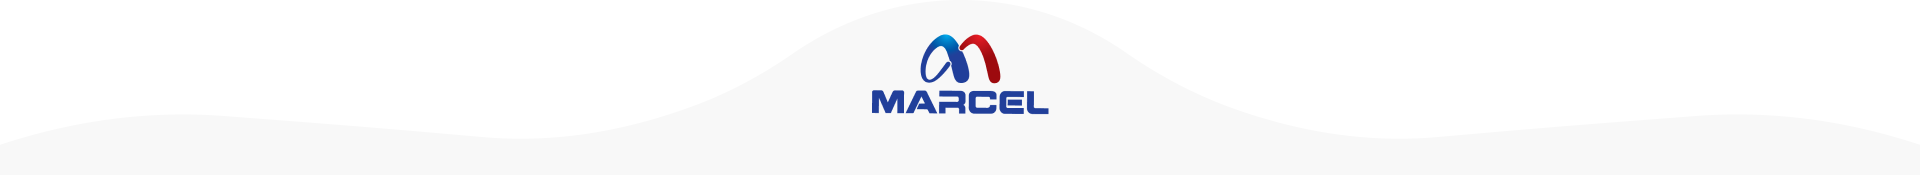
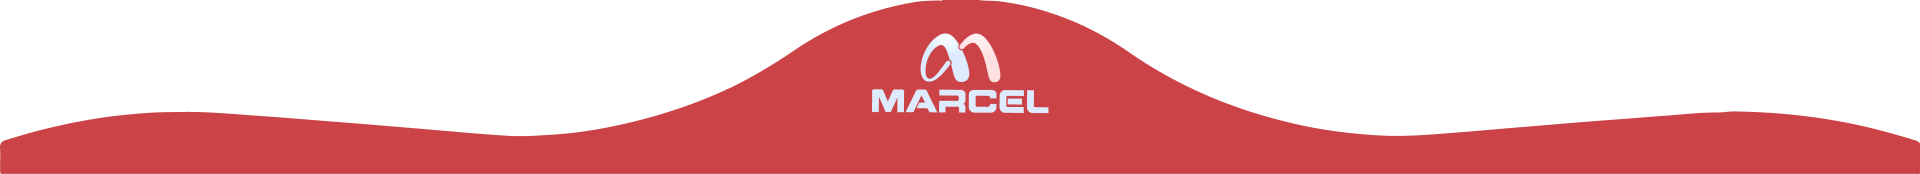
marcel page done

diff --git a/js/script.js b/js/script.js
@@ -111,7 +111,7 @@ $(document).ready(function(){
         $("#wslContent").hide();
         $("#chemicalContent").hide();
         $(".at-a-glance-top-bg").css("background-color", "#144A9D");
-        $(".custom-button").css("background-color", "#144A9D");
+        $(".at-a-glance-bottom-area .custom-button").css("background-color", "#144A9D");
         $(".active-center-item").css("background-color", "#CADFFF");
         $(".at-a-glance-bottom-area h2").css("color", "#144A9D");
     });
@@ -129,10 +129,10 @@ $(document).ready(function(){
         $("#nusdatContent").hide();
         $("#wslContent").hide();
         $("#chemicalContent").hide();
-        $(".at-a-glance-top-bg").css("background-color", "#00317D");
-        $(".custom-button").css("background-color", "#00317D");
-        $(".active-center-item").css("background-color", "#CADFFF");
-        $(".at-a-glance-bottom-area h2").css("color", "#00317D");
+        $(".at-a-glance-top-bg").css("background-color", "#D24146");
+        $(".at-a-glance-bottom-area .custom-button").css("background-color", "#D24146");
+        $(".active-center-item").css("background-color", "#FFD0D2");
+        $(".at-a-glance-bottom-area h2").css("color", "#D24146");
     });
     $("#plaza").click(function(){
         $("#plazaContent").show().removeClass("d-none");
@@ -149,7 +149,7 @@ $(document).ready(function(){
         $("#wslContent").hide();
         $("#chemicalContent").hide();
         $(".at-a-glance-top-bg").css("background-color", "#D24146");
-        $(".custom-button").css("background-color", "#D24146");
+        $(".at-a-glance-bottom-area .custom-button").css("background-color", "#D24146");
         $(".active-center-item").css("background-color", "#FFD0D2");
         $(".at-a-glance-bottom-area h2").css("color", "#D24146");
     });
@@ -168,7 +168,7 @@ $(document).ready(function(){
         $("#wslContent").hide();
         $("#chemicalContent").hide();
         $(".at-a-glance-top-bg").css("background-color", "#144A9D");
-        $(".custom-button").css("background-color", "#144A9D");
+        $(".at-a-glance-bottom-area .custom-button").css("background-color", "#144A9D");
         $(".active-center-item").css("background-color", "#CADFFF");
         $(".at-a-glance-bottom-area h2").css("color", "#144A9D");
     });
@@ -187,7 +187,7 @@ $(document).ready(function(){
         $("#wslContent").hide();
         $("#chemicalContent").hide();
         $(".at-a-glance-top-bg").css("background-color", "#1A9FDC");
-        $(".custom-button").css("background-color", "#1A9FDC");
+        $(".at-a-glance-bottom-area .custom-button").css("background-color", "#1A9FDC");
         $(".active-center-item").css("background-color", "#CADFFF");
         $(".at-a-glance-bottom-area h2").css("color", "#1A9FDC");
     });
@@ -206,7 +206,7 @@ $(document).ready(function(){
         $("#wslContent").hide();
         $("#chemicalContent").hide();
         $(".at-a-glance-top-bg").css("background-color", "#0072BB");
-        $(".custom-button").css("background-color", "#0072BB");
+        $(".at-a-glance-bottom-area .custom-button").css("background-color", "#0072BB");
         $(".active-center-item").css("background-color", "#CADFFF");
         $(".at-a-glance-bottom-area h2").css("color", "#0072BB");
     });
@@ -225,7 +225,7 @@ $(document).ready(function(){
         $("#wslContent").hide();
         $("#chemicalContent").hide();
         $(".at-a-glance-top-bg").css("background-color", "#278236");
-        $(".custom-button").css("background-color", "#278236");
+        $(".at-a-glance-bottom-area .custom-button").css("background-color", "#278236");
         $(".active-center-item").css("background-color", "#D6FFAE");
         $(".at-a-glance-bottom-area h2").css("color", "#278236");
     });
@@ -244,7 +244,7 @@ $(document).ready(function(){
         $("#wslContent").hide();
         $("#chemicalContent").hide();
         $(".at-a-glance-top-bg").css("background-color", "#144A9D");
-        $(".custom-button").css("background-color", "#144A9D");
+        $(".at-a-glance-bottom-area .custom-button").css("background-color", "#144A9D");
         $(".active-center-item").css("background-color", "#CADFFF");
         $(".at-a-glance-bottom-area h2").css("color", "#144A9D");
     });
@@ -263,7 +263,7 @@ $(document).ready(function(){
         $("#wslContent").hide();
         $("#chemicalContent").hide();
         $(".at-a-glance-top-bg").css("background-color", "#144A9D");
-        $(".custom-button").css("background-color", "#144A9D");
+        $(".at-a-glance-bottom-area .custom-button").css("background-color", "#144A9D");
         $(".active-center-item").css("background-color", "#CADFFF");
         $(".at-a-glance-bottom-area h2").css("color", "#144A9D");
     });
@@ -282,7 +282,7 @@ $(document).ready(function(){
         $("#wslContent").hide();
         $("#chemicalContent").hide();
         $(".at-a-glance-top-bg").css("background-color", "#114D9D");
-        $(".custom-button").css("background-color", "#114D9D");
+        $(".at-a-glance-bottom-area .custom-button").css("background-color", "#114D9D");
         $(".active-center-item").css("background-color", "#CADFFF");
         $(".at-a-glance-bottom-area h2").css("color", "#114D9D");
     });
@@ -301,7 +301,7 @@ $(document).ready(function(){
         $("#wslContent").hide();
         $("#chemicalContent").hide();
         $(".at-a-glance-top-bg").css("background-color", "#144A9D");
-        $(".custom-button").css("background-color", "#144A9D");
+        $(".at-a-glance-bottom-area .custom-button").css("background-color", "#144A9D");
         $(".active-center-item").css("background-color", "#CADFFF");
         $(".at-a-glance-bottom-area h2").css("color", "#144A9D");
     });
@@ -320,7 +320,7 @@ $(document).ready(function(){
         $("#nusdatContent").hide();
         $("#chemicalContent").hide();
         $(".at-a-glance-top-bg").css("background-color", "#144A9D");
-        $(".custom-button").css("background-color", "#144A9D");
+        $(".at-a-glance-bottom-area .custom-button").css("background-color", "#144A9D");
         $(".active-center-item").css("background-color", "#CADFFF");
         $(".at-a-glance-bottom-area h2").css("color", "#144A9D");
     });
@@ -339,7 +339,7 @@ $(document).ready(function(){
         $("#nusdatContent").hide();
         $("#wslContent").hide();
         $(".at-a-glance-top-bg").css("background-color", "#F9A634");
-        $(".custom-button").css("background-color", "#F9A634");
+        $(".at-a-glance-bottom-area .custom-button").css("background-color", "#F9A634");
         $(".active-center-item").css("background-color", "#EECC9D");
         $(".at-a-glance-bottom-area h2").css("color", "#F9A634");
     });

diff --git a/css/stylemarcel.css b/css/stylemarcel.css
@@ -55,7 +55,7 @@ body{
 .at-a-glance-top-bg{
     width: 100%;
     height: 500px;
-    background: var(--wl-primary);
+    background: var(--ml-primary);
     border-radius: 0 0 60% 60%/0 0 100% 100%;
 }
 .at-a-glance-bottom-area{
@@ -94,7 +94,7 @@ body{
     width: 280px;
     height: 280px;
     border-radius: 100%;
-    background: #CADFFF;
+    background: #FFD0D2;
     border: 5px solid var(--bs-white);
     z-index: 5;
     cursor: pointer;
@@ -105,14 +105,14 @@ body{
     padding: 15px;
 }
 .leaf-item.active {
-    background: #E8E8E8;
+    background: #FFD0D2;
     z-index: 5;
-    outline: 1px solid #82B3FF;
+    outline: 1px solid #FFD0D2;
     outline-offset: 3px;
 }
 .leaf-item:hover {
     background: #ffffff;
-    outline: 3px solid #CADFFF;
+    outline: 3px solid #FFD0D2;
     outline-offset: 2px;
 }
 .clone {
@@ -143,7 +143,7 @@ svg {
     font-weight: 800;
     line-height: 53.25px;
     text-align: center;
-    color: var(--wl-primary);
+    color: var(--ml-primary);
     text-transform: uppercase;
     margin-top: 80px;
 }
@@ -156,7 +156,7 @@ svg {
     color: var(--wl-black);  
 }
 .custom-button{
-    background: #144A9D;
+    background: var(--ml-primary);
     font-size: 19px;
     font-weight: 500;
     line-height: 22.99px;
@@ -181,7 +181,7 @@ svg {
 .leaf-arrow{
     width: 50px;
     height: 50px;
-    background: #144A9D;
+    background: var(--ml-primary);
     border-radius: 50px;
     cursor: pointer;
     text-align: center;
@@ -305,25 +305,20 @@ svg {
     margin-top: 150px;
 }
 /* footer-section style */
-.footer{
-    padding: 0px 0px 20px 0px;
-    background: #fff !important;
-}
 .footer-section{
-    background: #f8f8f9;
+    background: var(--ml-primary);
 }
 .footer-section p{
     font-family: "Inter", sans-serif;
     font-size: 18px;
     font-weight: 400;
-    line-height: 15.23px;   
-    margin-bottom: 25px;
+    line-height: 15.23px;
 }
 .footer-section i{
     font-size: 30px;
     padding: 8px;
-    background: var(--wl-light);
-    color: var(--wl-black);
+    background: var(--ml-primary);
+    color: var(--wl-light);
     text-align: center;
 }
 .footer-section i:hover{
@@ -337,14 +332,14 @@ svg {
     font-size: 18px;
     font-weight: 700;
     line-height: 19.36px;
-    color: var(--wl-blue);
+    color: var(--wl-light);
     text-transform: capitalize;
 }
 .footer-section .nav-link {
     font-family: "Inter", sans-serif;
     font-size: 16px;
     font-weight: 500;
-    color: var(--wl-link);
+    color: var(--wl-light);
     cursor: pointer;
 }
 .footer-section .nav-link:hover {
@@ -354,20 +349,21 @@ svg {
     font-family: "Inter", sans-serif;
     font-size: 16px;
     font-weight: 500;
-    line-height: 19.36px;
-    padding: 10px 0 0 0;
+    line-height: 19px;
+    padding: 10px 0 20px 0;
+    color: var(--wl-light);
 }
 .bottom-to-top{
     position: absolute;
     right: 0;
-    bottom: 450px;
+    bottom: 490px;
     z-index: 9999;
 }
 .top-button{
     width: 98px;
     height: 98px;
     border-radius: 50%;
-    background: #243859;
+    background: var(--ml-primary);
     border: 2px solid #EAEAEA;
     padding-top: 20px;
     color: #fff;

diff --git a/marcelbd.html b/marcelbd.html
@@ -8,7 +8,7 @@
     <link rel="stylesheet" href="css/bootstrap.min.css">
     <link rel="stylesheet" href="css/aos.css">
     <link rel="stylesheet" href="css/all.min.css">
-    <link rel="stylesheet" href="css/style.css">
+    <link rel="stylesheet" href="css/stylemarcel.css">
     <style>
       .at-a-glance-top-bg{
           background: var(--ml-primary);
@@ -271,8 +271,8 @@
                   </svg>
                 </div>
                 <div class="leaf-arrow-area">
-                  <span class="leaf-arrow float-start" id="prev"><i class="fa-solid fa-arrow-down"></i></span>
-                <span class="leaf-arrow ml-700" id="next"><i class="fa-solid fa-arrow-down"></i></span>
+                  <span class="leaf-arrow float-start" id="prev"><img src="images/icon/arrow-icon-down.png" alt=""></span>
+                <span class="leaf-arrow ml-700" id="next"><img src="images/icon/arrow-icon-down.png" alt=""></span>
                 </div>
               </div>
             </div>
@@ -494,17 +494,17 @@
         <div class="ac-block">
           <div class="container">
             <div class="row justify-content-center">
+              <div class="col-md-7 text-center">
+                <img src="images/marcel/marcel-ac.png" alt="" class="img-fluid">
+              </div>
+            </div>
+            <div class="row justify-content-center mt-50">
               <div class="col-6 text-center block-text">
                 <h2>Air Conditioner</h2>
                 <p class="mt-3">With Marcel Air conditioner you can keep your space as cool as you want, easily and efficiently. Deodorizer filter, 100% copper tube </p>
                 <a href="https://marcelbd.com" target="_blank">
                   <button class="custom-button mt-3">Read More</button>
                 </a>
-              </div>
-            </div>
-            <div class="row justify-content-center">
-              <div class="col-md-7 text-center mt-50">
-                <img src="images/marcel/marcel-ac.png" alt="" class="img-fluid">
               </div>
             </div>
           </div>

diff --git a/index.html b/index.html
@@ -418,8 +418,8 @@
                   </svg>
                 </div>
                 <div class="leaf-arrow-area">
-                  <span class="leaf-arrow float-start" id="prev"><i class="fa-solid fa-arrow-down"></i></span>
-                <span class="leaf-arrow ml-700" id="next"><i class="fa-solid fa-arrow-down"></i></span>
+                  <span class="leaf-arrow float-start" id="prev"><img src="images/icon/arrow-icon-down.png" alt=""></span>
+                  <span class="leaf-arrow ml-700" id="next"><img src="images/icon/arrow-icon-down.png" alt=""></span>
                 </div>
               </div>
             </div>
